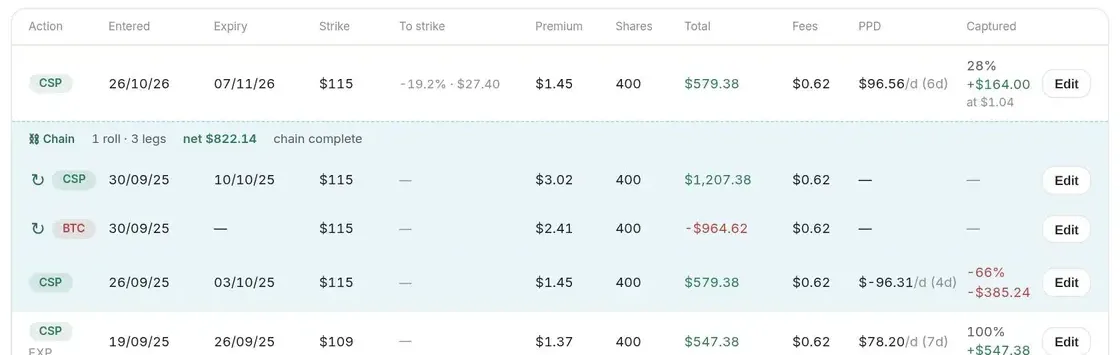
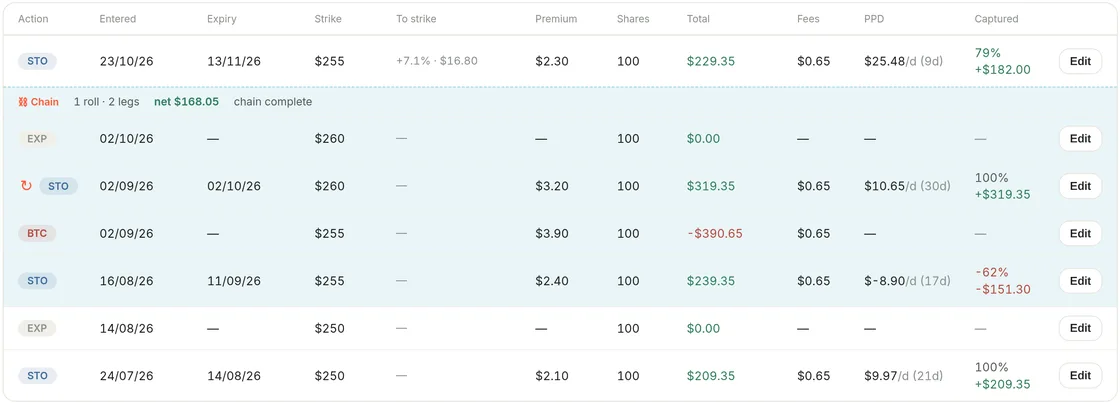
Landing roll-chain image regenerated from the demo (sw v132)

diff --git a/app/landing.html b/app/landing.html
@@ -89,7 +89,7 @@ footer{margin:3rem 0 2rem;color:var(--text3);font-size:.85rem;display:flex;gap:1
     <div class="f"><b>Monthly return, your way</b><span>This month's banked return against the money you've got working or your account size, with your own target or none.</span></div>
     <div class="f"><b>Pre-market and after-hours</b><span>See where your tickers are trading before the open and after the close.</span></div>
   </div>
-  <figure><img class="shot" src="img/shot-rollchain.webp" width="1120" height="355" loading="lazy" alt="A roll chain: the original put, the buy-back and the new put linked together with the net for the chain"><figcaption>A roll chain, linked with its net for the whole chain. Demo data.</figcaption></figure>
+  <figure><img class="shot" src="img/shot-rollchain.webp" width="1120" height="403" loading="lazy" alt="Calls sold against a LEAP, with a roll (buy back and sell a new call) linked as one chain and its net shown"><figcaption>A roll chain, linked with its net for the whole chain. Demo data, from the <a href="/demo#leaps">demo</a>.</figcaption></figure>
 
   <h2>Free and Pro</h2>
   <div class="plans">

diff --git a/app/sw.js b/app/sw.js
@@ -1,5 +1,5 @@
 // WheelHouse service worker. Bump CACHE on every release.
-const CACHE='optrack-v131';
+const CACHE='optrack-v132';
 // Caches from earlier app names, deleted on update. Only the service-worker cache: your data and settings are untouched.
 const LEGACY = ['wheelhouse-'];
 const SHELL = './index.html'; // the app itself (served at /app/); '/' is now the landing page
